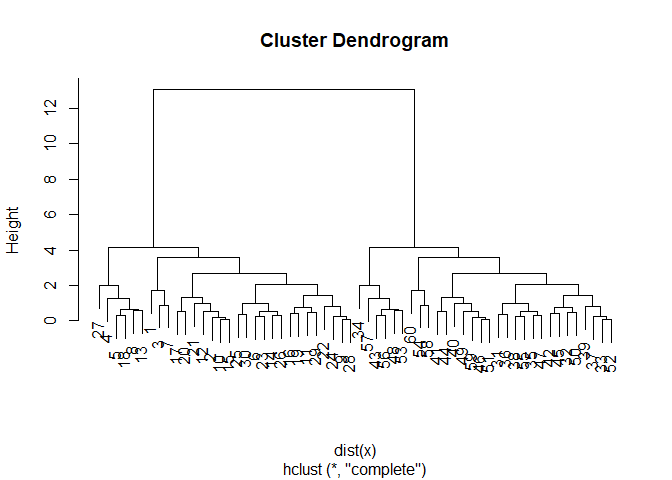
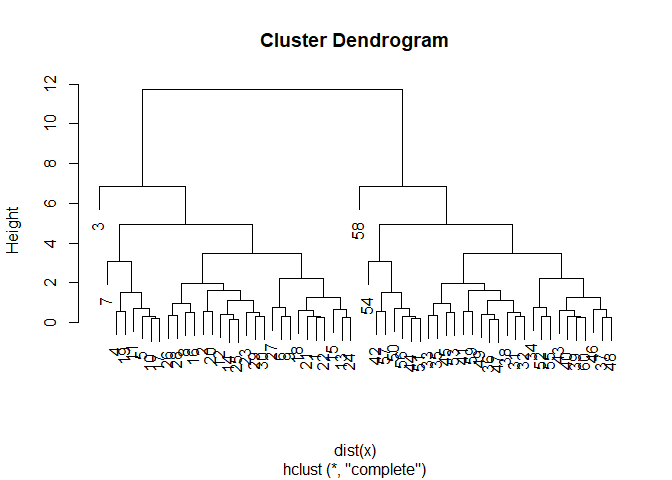
So I had to run things and then knit again due to issue in code. Now should have correct rmb of both files

diff --git a/Class09/Class09_seminar.md b/Class09/Class09_seminar.md
@@ -1,0 +1,128 @@
+Class09
+================
+Brandon Jones
+2/5/2020
+
+``` r
+# Generate some example data for clustering
+tmp <- c(rnorm(30,-3), rnorm(30,3))
+x <- cbind(x=tmp, y=rev(tmp))
+km<-kmeans(x, centers=2, nstart=20)
+
+plot(x,col=km$cluster)
+points(km$centers, col="blue", pch=15, cex=3)
+```
+
+![](Class09_seminar_files/figure-gfm/unnamed-chunk-1-1.png)<!-- -->
+
+``` r
+hc<- hclust( dist(x))
+hc
+```
+
+    ## 
+    ## Call:
+    ## hclust(d = dist(x))
+    ## 
+    ## Cluster method   : complete 
+    ## Distance         : euclidean 
+    ## Number of objects: 60
+
+``` r
+plot(hc)
+
+
+abline(h=6, col="red", lty=2)
+```
+
+![](Class09_seminar_files/figure-gfm/unnamed-chunk-1-2.png)<!-- -->
+
+``` r
+cutree(hc, h=6)
+```
+
+    ##  [1] 1 1 1 1 1 1 1 1 1 1 1 1 1 1 1 1 1 1 1 1 1 1 1 1 1 1 1 1 1 1 2 2 2 2 2 2 2 2
+    ## [39] 2 2 2 2 2 2 2 2 2 2 2 2 2 2 2 2 2 2 2 2 2 2
+
+``` r
+table( cutree(hc, h=6))
+```
+
+    ## 
+    ##  1  2 
+    ## 30 30
+
+``` r
+x <- rbind(
+ matrix(rnorm(100, mean=0, sd=0.3), ncol = 2), # c1
+ matrix(rnorm(100, mean=1, sd=0.3), ncol = 2), # c2
+ matrix(c(rnorm(50, mean=1, sd=0.3), # c3
+ rnorm(50, mean=0, sd=0.3)), ncol = 2))
+colnames(x) <- c("x", "y")
+# Step 2. Plot the data without clustering
+plot(x)
+```
+
+![](Class09_seminar_files/figure-gfm/unnamed-chunk-3-1.png)<!-- -->
+
+``` r
+# Step 3. Generate colors for known clusters
+# (just so we can compare to hclust results)
+col <- as.factor( rep(c("c1","c2","c3"), each=50) )
+plot(x, col=col)
+```
+
+![](Class09_seminar_files/figure-gfm/unnamed-chunk-3-2.png)<!-- -->
+
+``` r
+##plotting hclust
+hc<-hclust( dist(x))
+plot(hc)
+```
+
+![](Class09_seminar_files/figure-gfm/unnamed-chunk-3-3.png)<!-- -->
+
+``` r
+grps3<- cutree(hc,k=3)
+grps3
+```
+
+    ##   [1] 1 1 1 1 1 1 1 1 1 1 1 1 1 1 1 1 1 1 1 1 1 1 1 1 1 1 1 1 1 1 1 1 1 1 1 1 1
+    ##  [38] 1 1 1 1 1 1 1 1 1 1 1 1 1 2 2 2 2 2 2 2 2 2 2 2 2 3 2 2 2 1 2 2 2 2 2 2 2
+    ##  [75] 2 2 2 2 2 2 2 2 2 2 2 2 2 2 2 2 2 2 2 2 3 2 2 2 2 2 2 3 3 3 2 3 2 3 3 3 3
+    ## [112] 2 3 3 3 3 3 3 3 3 3 2 3 3 3 3 3 2 3 1 1 3 3 3 2 1 2 3 1 3 3 3 3 3 3 2 3 3
+    ## [149] 3 3
+
+``` x
+```
+
+## R Markdown
+
+This is an R Markdown document. Markdown is a simple formatting syntax
+for authoring HTML, PDF, and MS Word documents. For more details on
+using R Markdown see <http://rmarkdown.rstudio.com>.
+
+When you click the **Knit** button a document will be generated that
+includes both content as well as the output of any embedded R code
+chunks within the document. You can embed an R code chunk like this:
+
+``` r
+summary(cars)
+```
+
+    ##      speed           dist       
+    ##  Min.   : 4.0   Min.   :  2.00  
+    ##  1st Qu.:12.0   1st Qu.: 26.00  
+    ##  Median :15.0   Median : 36.00  
+    ##  Mean   :15.4   Mean   : 42.98  
+    ##  3rd Qu.:19.0   3rd Qu.: 56.00  
+    ##  Max.   :25.0   Max.   :120.00
+
+## Including Plots
+
+You can also embed plots, for example:
+
+![](Class09_seminar_files/figure-gfm/pressure-1.png)<!-- -->
+
+Note that the `echo = FALSE` parameter was added to the code chunk to
+prevent printing of the R code that generated the plot.
